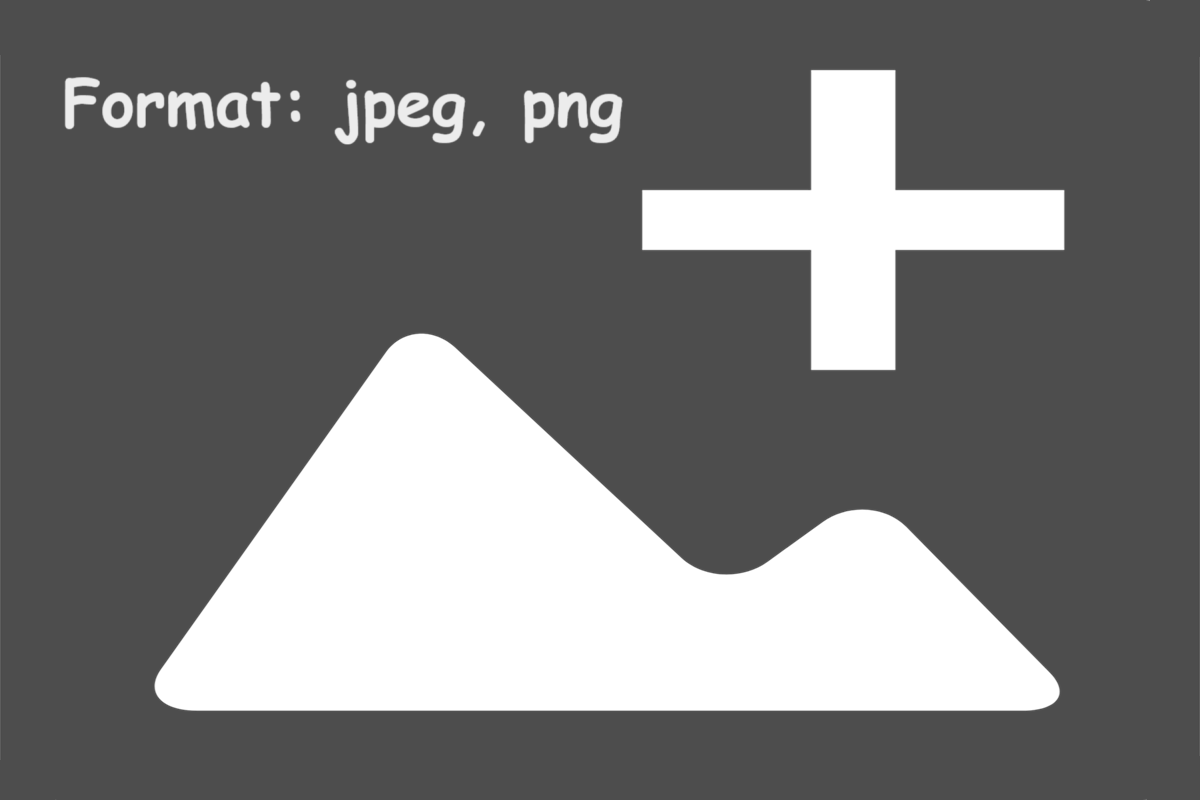
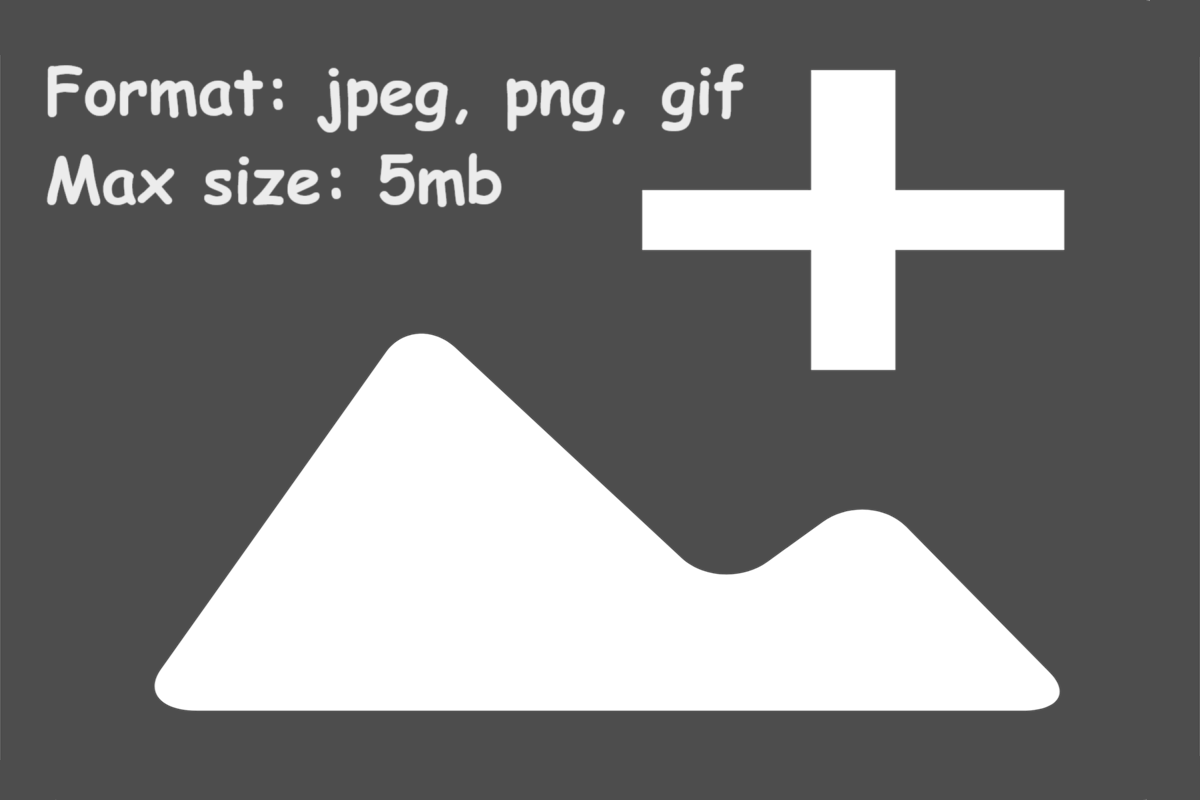
13 August 2024: -setup Lyro AI(faq bot) & filled basic faqs. -[COMPLETE] Chatbot Module -post can now accept .gif, and increase size cap to 5mb. -next: fix/improve current modules -current: accept video embeds, accept multiple files/post

Changed region(s): [[0.0308, 0.0625, 0.5242, 0.2812], [0.555, 0.0625, 0.6167, 0.1875]]

diff --git a/resources/views/about.blade.php b/resources/views/about.blade.php
@@ -25,24 +25,46 @@
                     <img src="{{ asset('media/building.png') }}" alt="day care centre building" class="img-fluid" />
                 </div>
                 <div class="col-md-7 order-md-1 about">
-                Little Smart Day Care Centre was founded in 2018. As the name suggests, the centre mainly takes
-                care of children after school until their parents come back from work. In the following year,
-                SJK(C) Bukit Serdang was fully constructed and began their academic years in the nearby
-                vicinity, the day care centre received a sudden influx of children. After some consideration, the
-                director decided to offer academic tuition services as well due to some requests from the parents
-                and had been operating in such mode ever since.
+                Established in 2018, Little Smart Day Care Centre provides after-school care for children until their parents return from work.
+                With the opening of SJK(C) Bukit Serdang nearby the following year, the centre experienced a surge in enrolments.
+                To meet parents’ requests, we expanded our services to include academic tuition, which has been a core part of our offerings ever since.
                 </div>
             </div>
             <!-- Duplicate the above block as needed -->
             <div class="row mb-4">
                 <div class="col-md-5 order-md-2">
-                    <img src="{{ asset('media/group_photo.jpg') }}" alt="students" class="img-fluid" />
+                    <img src="{{ asset('media/group_photo.jpg') }}" alt="group of students" class="img-fluid" />
                 </div>
                 <div class="col-md-7 order-md-1 about">
-                As of 2024, Little Smart Day Care Centre has an average size of students every year, mainly
-                taking in children of age 7 to 12. Our tuition covers all academic subjects, where each day will
-                focus on 1 or 2 subjects. Our mission is to provide peace of mind to the parents, and boost
-                children’s academic skills and confidence.
+                As of 2024, Little Smart Day Care Centre caters to children aged 7 to 12, maintaining a consistent number of students each year.
+                Our tuition program covers all academic subjects, with each day dedicated to focusing on one or two subjects.
+                We aim to provide a supportive environment that enhances both the academic skills and confidence of our students.
+                </div>
+            </div>
+            <div class="row mb-4">
+                <div class="col-md-5 order-md-2">
+                    <img src="{{ asset('media/achievement.jpg') }}" alt="students holding certificate" class="img-fluid" />
+                </div>
+                <div class="col-md-7 order-md-1 about">
+                Our centre is equipped with three well-furnished classrooms, creating a comfortable and conducive learning environment.
+                Additionally, the spacious lobby provides a great space for students to relax and socialize with their peers during breaks.
+                </div>
+            </div>
+            <div class="row mb-4">
+                <div class="col-md-5 order-md-2">
+                    <img src="{{ asset('media/score.jpg') }}" alt="full score math paper" class="img-fluid" />
+                </div>
+                <div class="col-md-7 order-md-1 about">
+                Over the years, our students have consistently excelled in their studies, receiving positive feedback from their parents.
+                Their achievements reflect the dedication and quality of the education we provide.
+                <br><br>
+                For any enquiries, you may reach out to:<br>
+                <i>
+                Novy (Whatsapp):&nbsp; 012-2751398<br>
+                1-63, Jalan PUJ 3/9,<br>
+                Taman Puncak Jalil,<br>
+                43300 Seri Kembangan, Selangor.<br>
+                </i>
                 </div>
             </div>
         </div>

diff --git a/app/Http/Controllers/PostController.php b/app/Http/Controllers/PostController.php
@@ -49,7 +49,7 @@ class PostController extends Controller
         $validated = $request->validate([
             'title' => 'required|string',
             'description' => 'nullable|string',
-            'image' => 'nullable|mimes:jpeg,png|max:2048' // must be JPEG or PNG, max size 2MB
+            'image' => 'nullable|mimes:jpeg,png,gif|max:5120' // accept jpg, png, gif max 5mb
         ]);
 
         // Ensure the images directory exists
@@ -70,8 +70,6 @@ class PostController extends Controller
 
             // Sanitize description
             $config = HTMLPurifier_Config::createDefault();
-            // // customize to permit rich text get saved as HTML entities
-            // $config->set('HTML.Allowed', 'p,b,strong,i,em,u,a[href|title],ul,ol,li,br,span,h1,h2,h3,h4,h5,h6,img[src|alt|title|width|height],table,tr,td,th,thead,tbody,tfoot,blockquote,hr');
             $purifier = new HTMLPurifier($config);
             $sanitizedDescription = $purifier->purify($validated['description']);
 
@@ -112,7 +110,7 @@ class PostController extends Controller
         $validated = $request->validate([
             'title' => 'required|string',
             'description' => 'nullable|string',
-            'image' => 'nullable|mimes:jpeg,png|max:2048' // must be JPEG or PNG, max size 2MB
+            'image' => 'nullable|mimes:jpeg,png,gif|max:5120' // accept jpg, png, gif max 5mb
         ]);
 
         // Ensure the images directory exists
